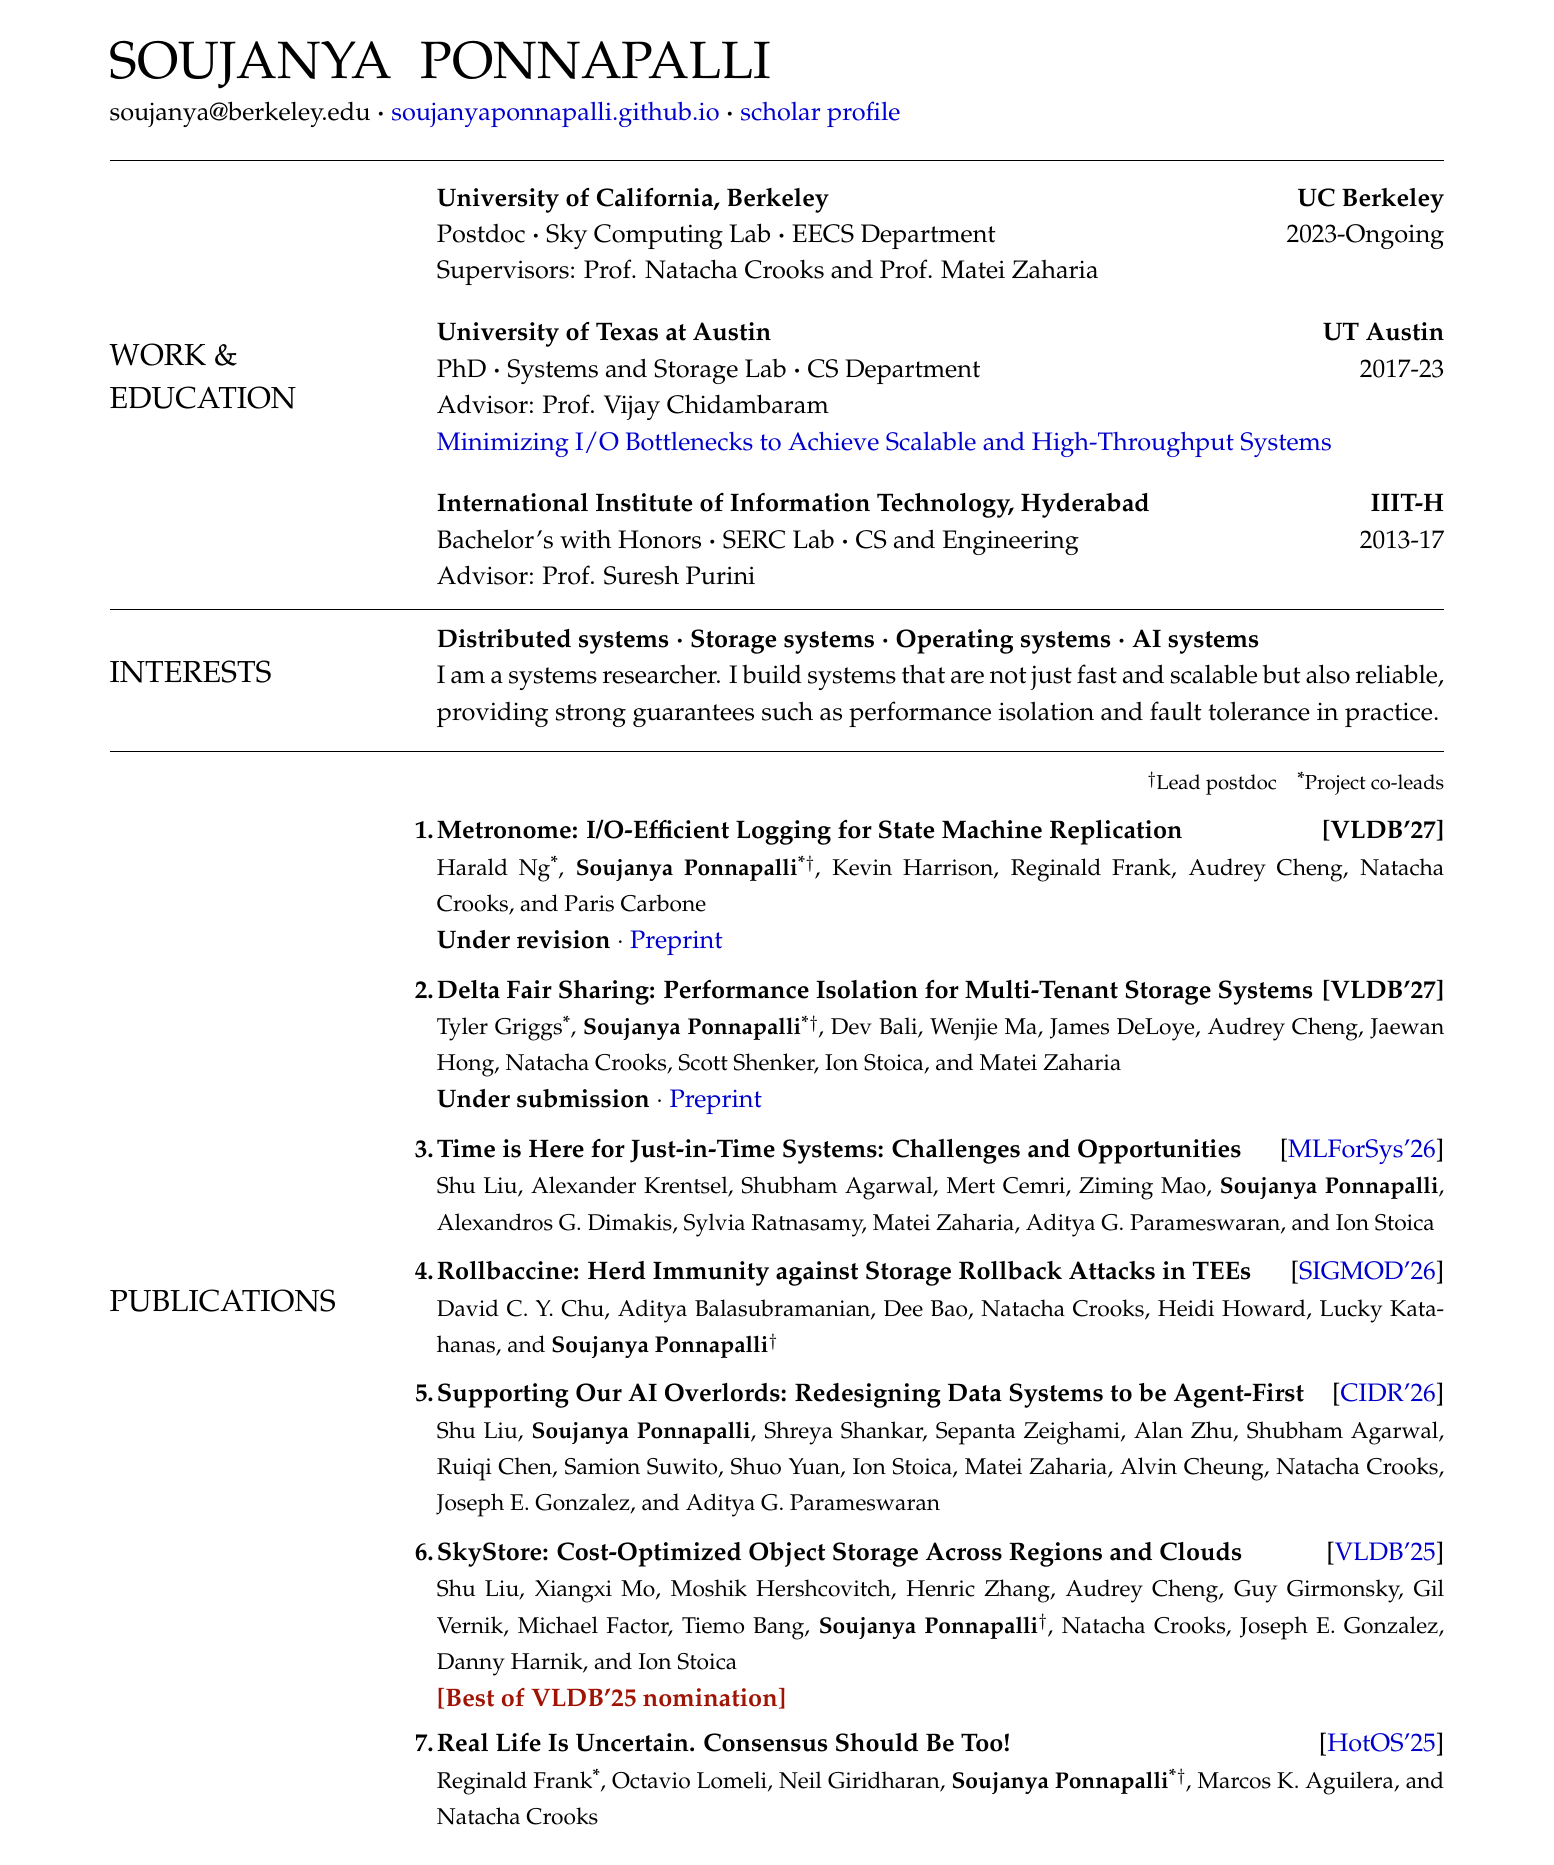
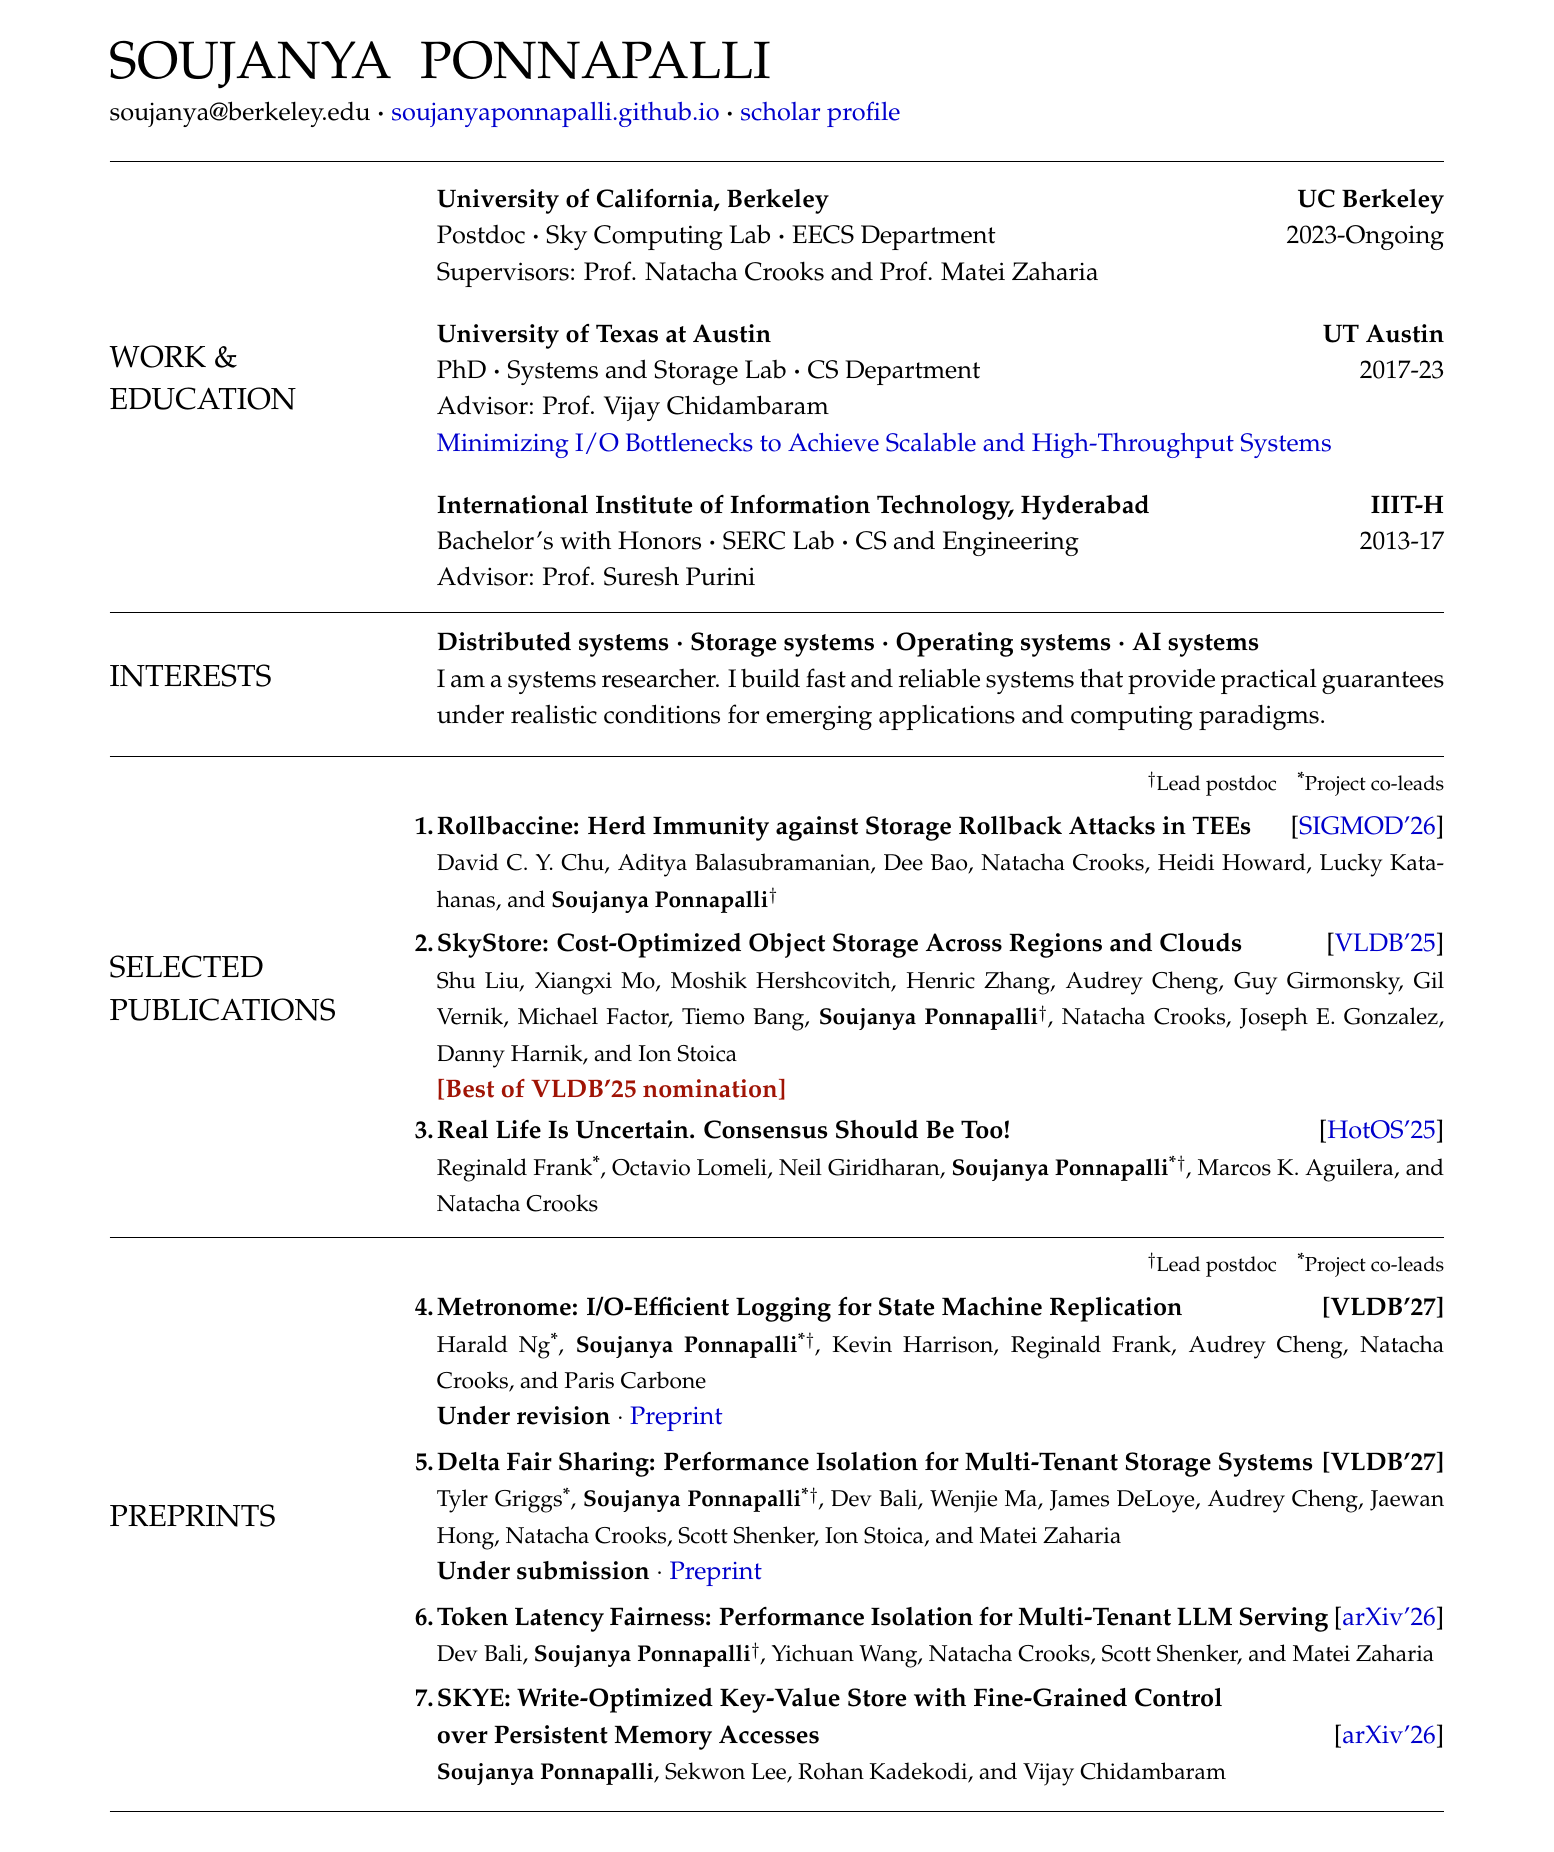
:arrow_up: Rewriting the interests line and refreshing the restructured CV

diff --git a/_pages/about.md b/_pages/about.md
@@ -10,9 +10,9 @@ description: "Soujanya Ponnapalli is a postdoctoral scholar at UC Berkeley's Sky
 
 <div class="page-lead" markdown="1">
 
-I am a systems researcher. I love building systems that are not just fast and
-scalable, but also **reliable**, providing strong guarantees, such as performance
-isolation and fault tolerance, in practice.<br>
+I am a systems researcher. I build fast and **reliable** systems that provide
+practical guarantees under realistic conditions for emerging applications and
+computing paradigms.<br>
 <strong class="job-market">I am on the job market!</strong>
 
 I am a postdoctoral scholar at the [University of California, Berkeley](https://www.berkeley.edu/),
